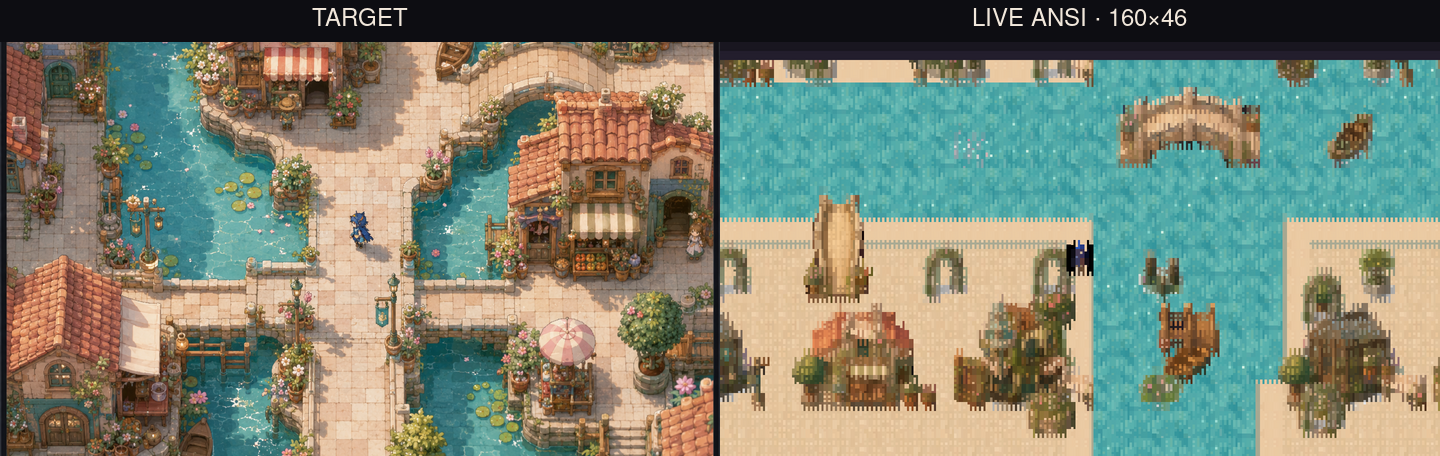
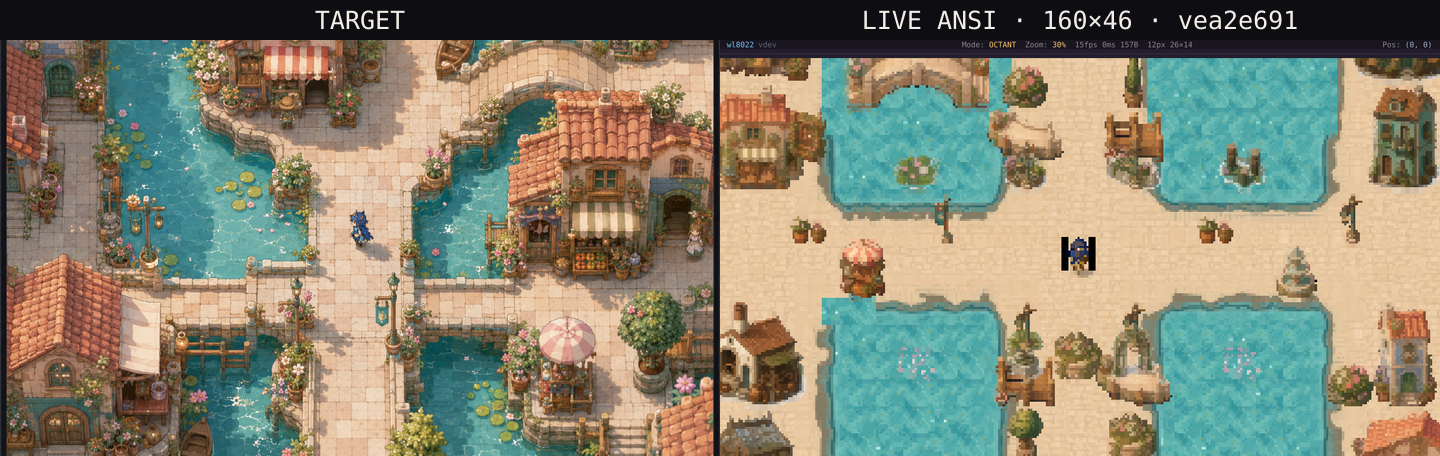
record live inhabited arrival evidence

diff --git a/tools/render-sim/gallery/index.html b/tools/render-sim/gallery/index.html
@@ -22,6 +22,13 @@ headless simulator (<code>tools/render-sim</code>) — the same pipeline the SSH
 <section><h2>🎯 TARGET (mockup)</h2>
 <div class="grid"><figure><a href="/gallery/TARGET.png"><img loading="lazy" src="/gallery/TARGET.png" alt="target mockup"></a>
 <figcaption>The goal: a dense, warm, painterly canal-town rendered as pure ANSI in Ghostty.</figcaption></figure></div></section>
+<section><h2>011-inhabited-arrival-street</h2><pre class="notes"># 011-inhabited-arrival-street
+
+2026-07-23T18:03:33.003Z
+
+Deployed vea2e691. Real TERM=xterm-ghostty SSH stream at 160x46, exact cell-state replay with approximate DejaVu Sans Mono text metrics. The causeway now has a western market room and eastern fountain/seating room while the exact (0,0) spawn court and both traversal axes remain clear. 306,008 startup/first-frame bytes; 8,597 subsequent bytes over six seconds and 44 synchronized frames. Automated direction evidence only; physical Ghostty acceptance and the six-biome atlas remain open.
+</pre><div class="grid"><figure><a href="/gallery/011-inhabited-arrival-street/canal-town-production-octant-0-0.png"><img loading="lazy" src="/gallery/011-inhabited-arrival-street/canal-town-production-octant-0-0.png" alt="canal-town-production-octant-0-0.png"></a><figcaption>canal-town-production-octant-0-0.png</figcaption></figure>
+<figure><a href="/gallery/011-inhabited-arrival-street/live-arrival-vea2e691-faithful.png"><img loading="lazy" src="/gallery/011-inhabited-arrival-street/live-arrival-vea2e691-faithful.png" alt="live-arrival-vea2e691-faithful.png"></a><figcaption>live-arrival-vea2e691-faithful.png</figcaption></figure></div></section>
 <section><h2>010-first-milestone-engineering-gate</h2><pre class="notes"># 010-first-milestone-engineering-gate
 
 2026-07-23T13:05:57.673Z

diff --git a/docs/RENDERING.md b/docs/RENDERING.md
@@ -125,15 +125,14 @@ on the next safe full service restart after existing connections drain.
 
 ## 6. Measured production result
 
-Real `TERM=xterm-ghostty` SSH capture at 160x46 from deployed `v3df6d44`,
+Real `TERM=xterm-ghostty` SSH capture at 160x46 from deployed `vea2e691`,
 July 23:
 
 | condition | measured terminal bytes |
 |---|---:|
-| startup plus first synchronized frame | 305,971 |
-| subsequent six seconds including `ddssaa` | 6,277 |
-| bytes after movement input | 1,919 |
-| synchronized frames | 18 |
+| startup plus first synchronized frame | 306,008 |
+| subsequent six seconds, no input | 8,597 |
+| synchronized frames | 44 |
 
 `codec-bench.mjs` independently reports a zero-byte ordinary idle delta, 321
 bytes for a 0.2-tile actor update, and 1,181/315 bytes for one-cell x/y camera
@@ -142,7 +141,7 @@ cgroup was approximately 733 MiB current/peak with zero swap, inside its 1.6
 GiB envelope.
 
 The raw stream and faithful automated screenshot are retained under
-`/mnt/donto-data/donto-resources/maldoror/rendering-research/track-4-world-composition/arrival-v3df6d44/`.
+`/mnt/donto-data/donto-resources/maldoror/rendering-research/track-4-world-composition/arrival-vea2e691/`.
 The screenshot was produced by replaying the actual SSH byte stream through
 `faithful-render.mjs`, including palette changes, margins, scroll operations,
 REP, DCH, ICH, and ordinary text overlays. Block geometry and cell colours are

diff --git a/docs/BUILD-BRIEF.md b/docs/BUILD-BRIEF.md
@@ -292,9 +292,10 @@ sign-off.
 3. ✅ Codec v1: retained framebuffer, exact scroll transforms, dirty repairs,
    palette water, keyframes, and bounded output.
 4. ✅ Smooth actor/camera/zoom plus area-resampled LOD.
-5. ✅ Live worker deployment and honest real-SSH capture. Current 160×46 proof:
-   270,069-byte initial cell frame; 16,133 post-keyframe bytes over six seconds;
-   one step adds 5,130 bytes over the equivalent idle interval.
+5. ✅ Live worker deployment and real-SSH capture. Current `vea2e691` 160×46
+   proof: 306,008-byte startup/first frame; 8,597 subsequent bytes over six
+   seconds and 44 synchronized frames; exact origin persisted at `(0,0)`; 733
+   MB warmed cgroup peak with zero swap.
 6. ⏳ Operator sign-off in a physical Ghostty window. This is an external
    acceptance action and must not be fabricated by the automated harness.
 

diff --git a/tools/render-sim/gallery/011-inhabited-arrival-street/notes.md b/tools/render-sim/gallery/011-inhabited-arrival-street/notes.md
@@ -1,0 +1,5 @@
+# 011-inhabited-arrival-street
+
+2026-07-23T18:03:33.003Z
+
+Deployed vea2e691. Real TERM=xterm-ghostty SSH stream at 160x46, exact cell-state replay with approximate DejaVu Sans Mono text metrics. The causeway now has a western market room and eastern fountain/seating room while the exact (0,0) spawn court and both traversal axes remain clear. 306,008 startup/first-frame bytes; 8,597 subsequent bytes over six seconds and 44 synchronized frames. Automated direction evidence only; physical Ghostty acceptance and the six-biome atlas remain open.
